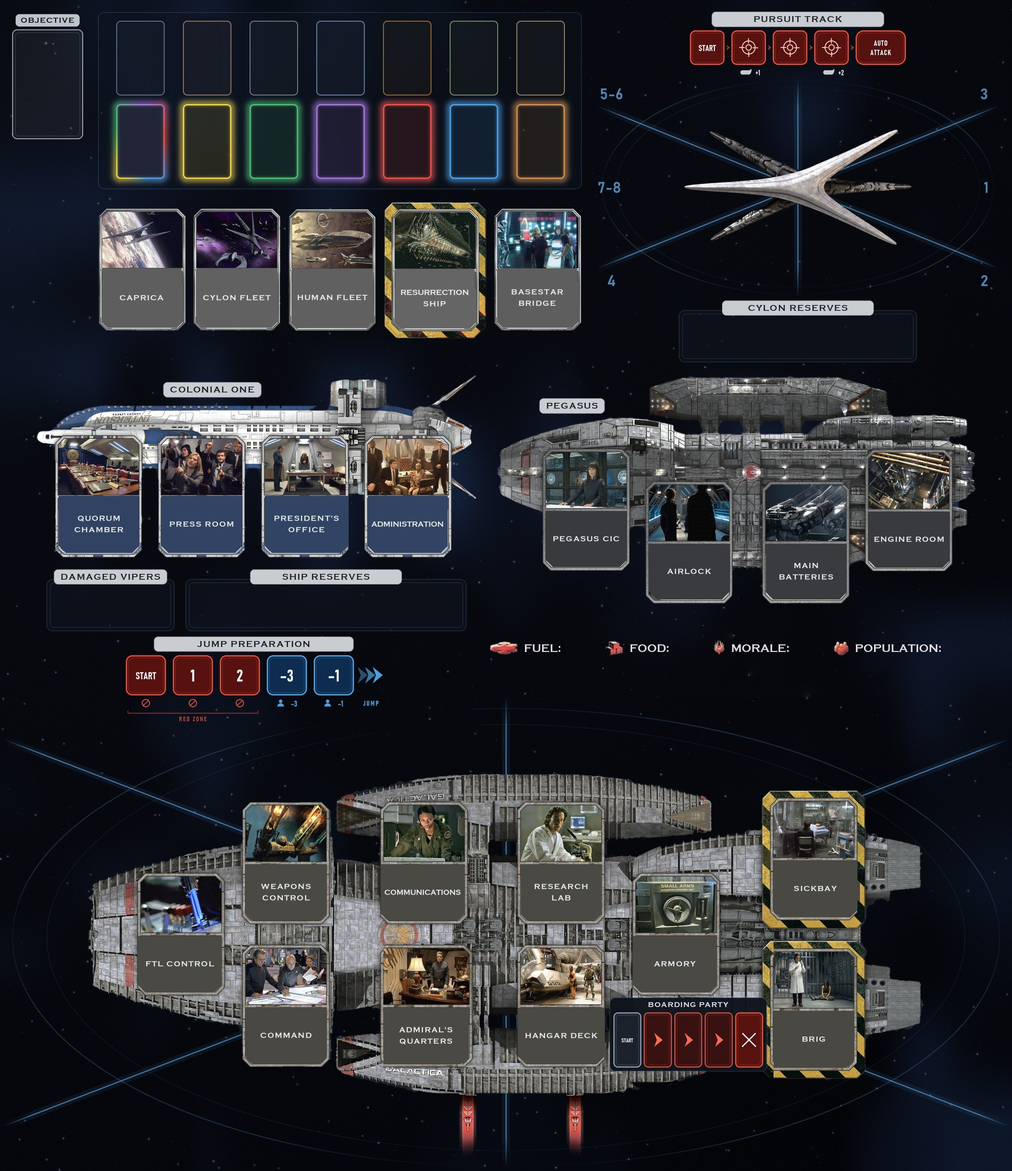
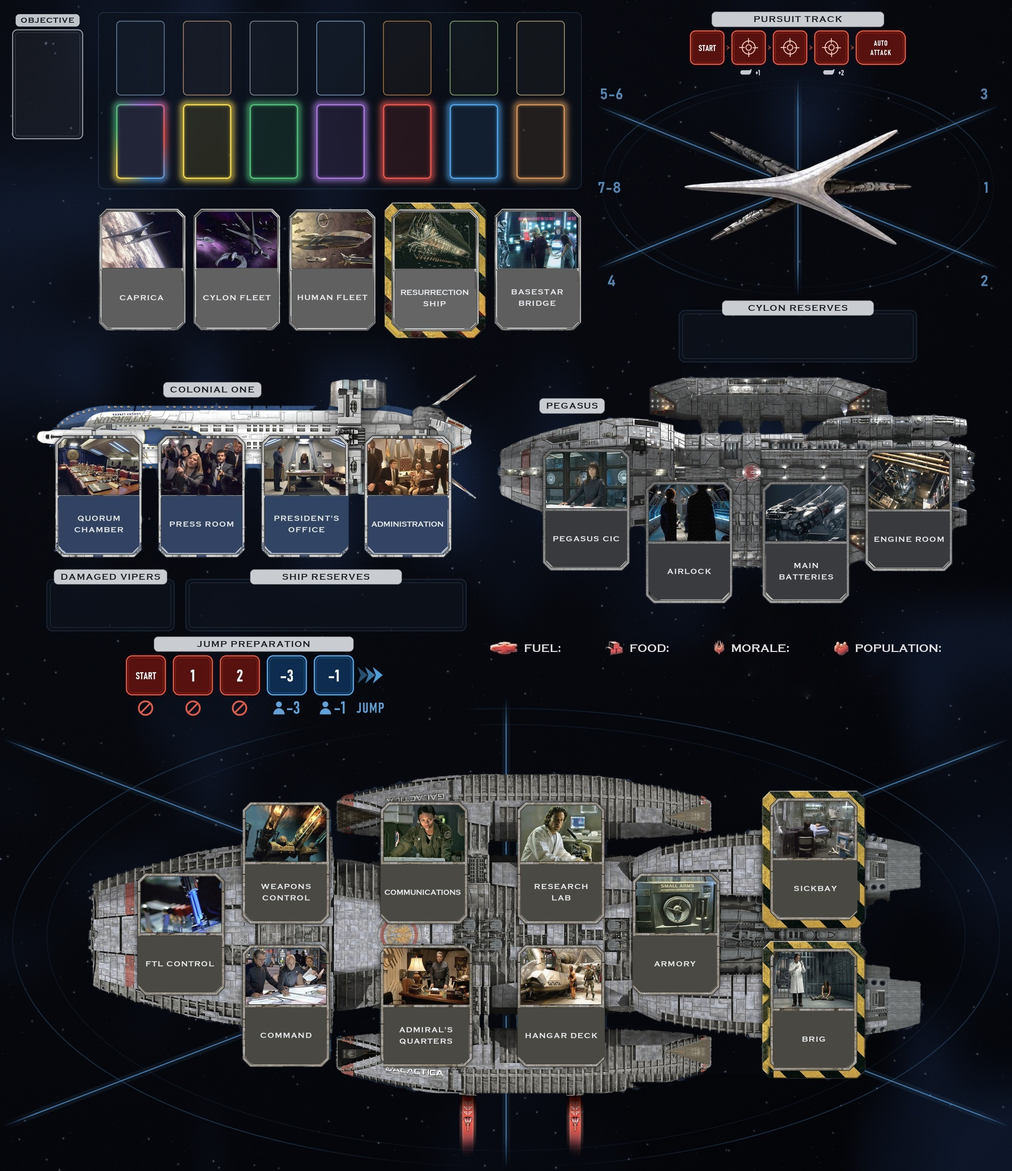
Show Boarding Party track only while occupied

diff --git a/frontend/src/table/board/BoardSvg.tsx b/frontend/src/table/board/BoardSvg.tsx
@@ -28,6 +28,7 @@ import type { LabelContext } from '../../labels/describe';
 import { useRevealHandlers, type RevealCard, type RevealSection } from '../reveal';
 import { useTable } from '../tableContext';
 import boardUrl from './board.jpg';
+import boardingPartyUrl from './boarding-party.png';
 import {
   BOARD_HEIGHT,
   BOARD_WIDTH,
@@ -266,27 +267,32 @@ function Tracks({ game }: { game: GameProjection }) {
     }
   }
   const centurion = tokenArt('CENTURION');
+  const panel = SLOTS.boardingParty;
   return (
     <g className="tracks">
       {jump && JUMP_TRACK[jump] && <Marker track="JumpPreparation" position={jump} at={JUMP_TRACK[jump]} size={88} label={constantLabel('JumpPreparation', jump)} />}
       {pursuit && PURSUIT_TRACK[pursuit] && <Marker track="Pursuit" position={pursuit} at={PURSUIT_TRACK[pursuit]} size={78} label={constantLabel('Pursuit', pursuit)} />}
-      <g className="boarding" data-track="BoardingParty">
-        {[...boarding.entries()].map(([position, count]) => {
-          const at = BOARDING_TRACK[position];
-          return at ? (
-            <g key={position} className="centurions" data-position={position} aria-label={`${count} centurion${count > 1 ? 's' : ''} at ${constantLabel('BoardingParty', position)}`}>
-              {centurion ? (
-                Array.from({ length: Math.min(count, 3) }, (_, index) => (
-                  <SvgArt key={index} art={centurion} x={at.x - 22 + index * 6} y={at.y - 34 - index * 8} width={44} height={68} preview={false} className="piece" />
-                ))
-              ) : (
-                <circle cx={at.x} cy={at.y} r={22} />
-              )}
-              {count > 1 && <Count x={at.x + 26} y={at.y - 62} value={`×${count}`} size={24} align="end" />}
-            </g>
-          ) : null;
-        })}
-      </g>
+      {/* the track isn't printed: it lies over the hull only while a centurion is on it */}
+      {boarding.size > 0 && (
+        <g className="boarding" data-track="BoardingParty">
+          <image href={boardingPartyUrl} x={panel.x} y={panel.y} width={panel.width} height={panel.height} />
+          {[...boarding.entries()].map(([position, count]) => {
+            const at = BOARDING_TRACK[position];
+            return at ? (
+              <g key={position} className="centurions" data-position={position} aria-label={`${count} centurion${count > 1 ? 's' : ''} at ${constantLabel('BoardingParty', position)}`}>
+                {centurion ? (
+                  Array.from({ length: Math.min(count, 3) }, (_, index) => (
+                    <SvgArt key={index} art={centurion} x={at.x - 32 + index * 8} y={at.y - 50 - index * 10} width={64} height={99} preview={false} className="centurion" />
+                  ))
+                ) : (
+                  <circle className="centurion" cx={at.x} cy={at.y} r={30} />
+                )}
+                {count > 1 && <Count x={at.x + 36} y={at.y - 86} value={`×${count}`} size={24} align="end" />}
+              </g>
+            ) : null;
+          })}
+        </g>
+      )}
     </g>
   );
 }

diff --git a/frontend/src/table/board/BoardSvg.test.tsx b/frontend/src/table/board/BoardSvg.test.tsx
@@ -165,6 +165,17 @@ describe('the board', () => {
     expect(board.querySelector('[data-track="BoardingParty"] [data-position="POSITION_1"]')?.getAttribute('aria-label')).toBe('1 centurion at Position 1');
   });
 
+  it('lays the Boarding Party track over the hull only while a centurion is on it', () => {
+    const boarded = renderBoard().querySelector('[data-track="BoardingParty"]')!;
+    const track = boarded.querySelector(':scope > image')!;
+    expect(track.getAttribute('href')).toContain('boarding-party');
+    expect(Number(track.getAttribute('x'))).toBe(SLOTS.boardingParty.x);
+    expect(boarded.querySelector('[data-position="POSITION_1"] .centurion')).not.toBeNull();
+
+    const nobody = { ...game, galactica: { ...game.galactica!, boardingParty: [] } } as GameProjection;
+    expect(renderBoard(undefined, nobody).querySelector('[data-track="BoardingParty"]')).toBeNull();
+  });
+
   it('puts each amount after its printed resource, red in the red zone', () => {
     const board = renderBoard();
 

diff --git a/frontend/src/styles.css b/frontend/src/styles.css
@@ -960,6 +960,12 @@ details > summary {
   filter: drop-shadow(0 0 3px #fff) drop-shadow(0 4px 6px rgba(0, 0, 0, 0.8));
 }
 
+/* the centurions boarding Galactica glow red on their track, which is red only at its end */
+.board-svg .boarding .centurion {
+  fill: #ff4f43;
+  filter: drop-shadow(0 0 4px #ff3b2f) drop-shadow(0 0 14px rgba(255, 50, 35, 0.85)) drop-shadow(0 6px 5px rgba(0, 0, 0, 0.8));
+}
+
 .board-svg .count polygon {
   fill: rgba(6, 12, 24, 0.9);
   stroke: rgba(143, 208, 255, 0.65);

diff --git a/frontend/src/table/board/layout.ts b/frontend/src/table/board/layout.ts
@@ -92,6 +92,8 @@ export const SLOTS = {
   cylonReserves: printedBox(printed.slots.cylonReserves),
   damagedVipers: printedBox(printed.slots.damagedVipers),
   shipReserves: printedBox(printed.slots.shipReserves),
+  // not printed: the Boarding Party track lies over Galactica's hull while a centurion is on it
+  boardingParty: printedBox(printed.slots.boardingParty),
   // no printed slot: the free starfield
   inPlay: box(785, 1262, 110, 155),
 };

diff --git a/CLAUDE.md b/CLAUDE.md
@@ -1150,7 +1150,8 @@ REST (the lobby lists poll), Zustand for the game.
   of their space areas, the Cylon ships first, a ship as large in every area of its board, alone or piled (the bow's
   strip is 8 o'clock, the stern's 2 o'clock; the ships leave the launch tubes free). The resources are printed in a
   row, each amount after its icon and label ("FUEL:"), red in the red zone (`resources.tsx`, the icons in `icons/`),
-  markers sit on the tracks, the decks lie in the rack, which prints no names but rings each Skill Card deck in its
+  markers sit on the tracks (the Boarding Party track isn't printed: `boarding-party.png`, red only at its end, lies
+  over the hull while a centurion is on it, and its centurions stand large and glow red), the decks lie in the rack, which prints no names but rings each Skill Card deck in its
   color, with their counts and their top discard over them, the civilian ships lie at the end of the ship reserves, and
   the destinations tuck under the objective, each showing its distance. The Crisis Cards kept in play lie by the jump
   track. The board leaves out the card being resolved, its skill check and the die (the turn panel shows them), the
